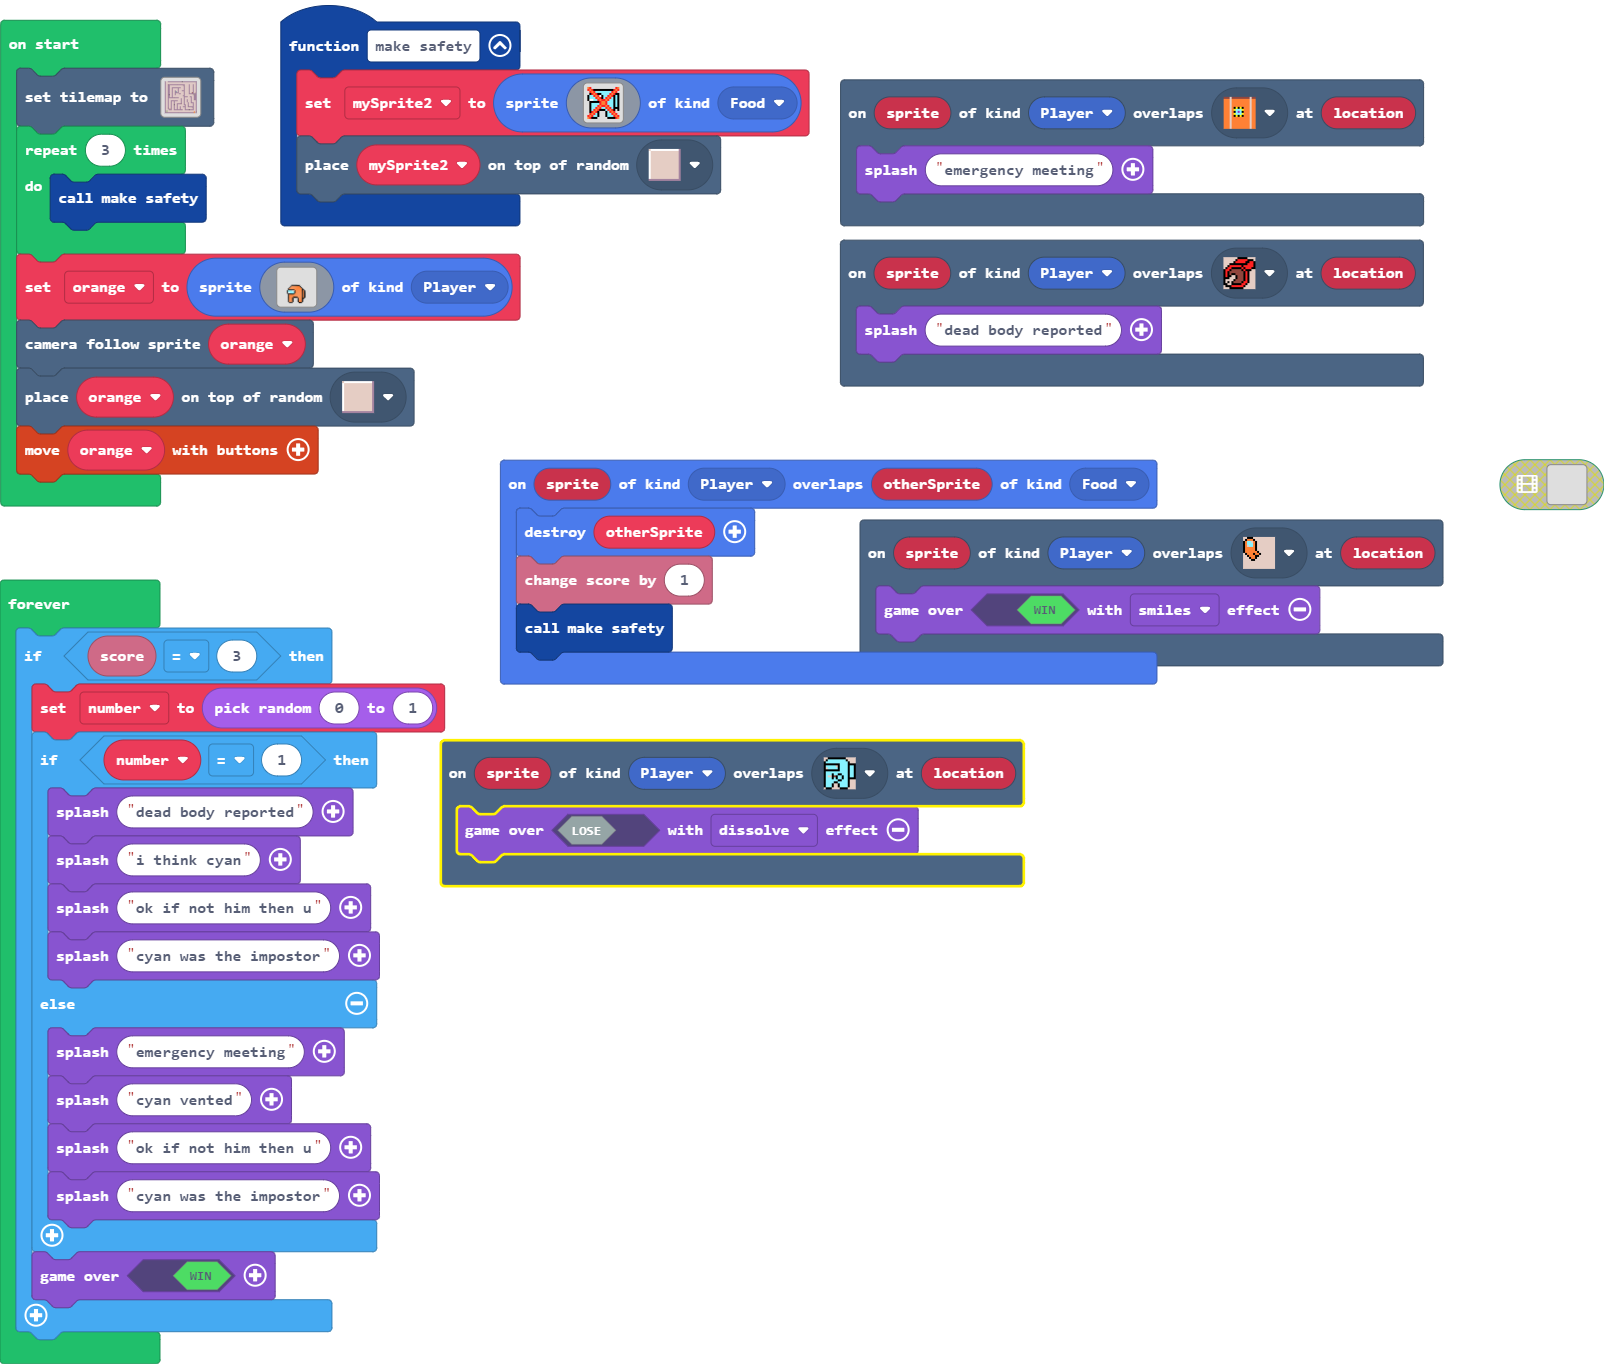
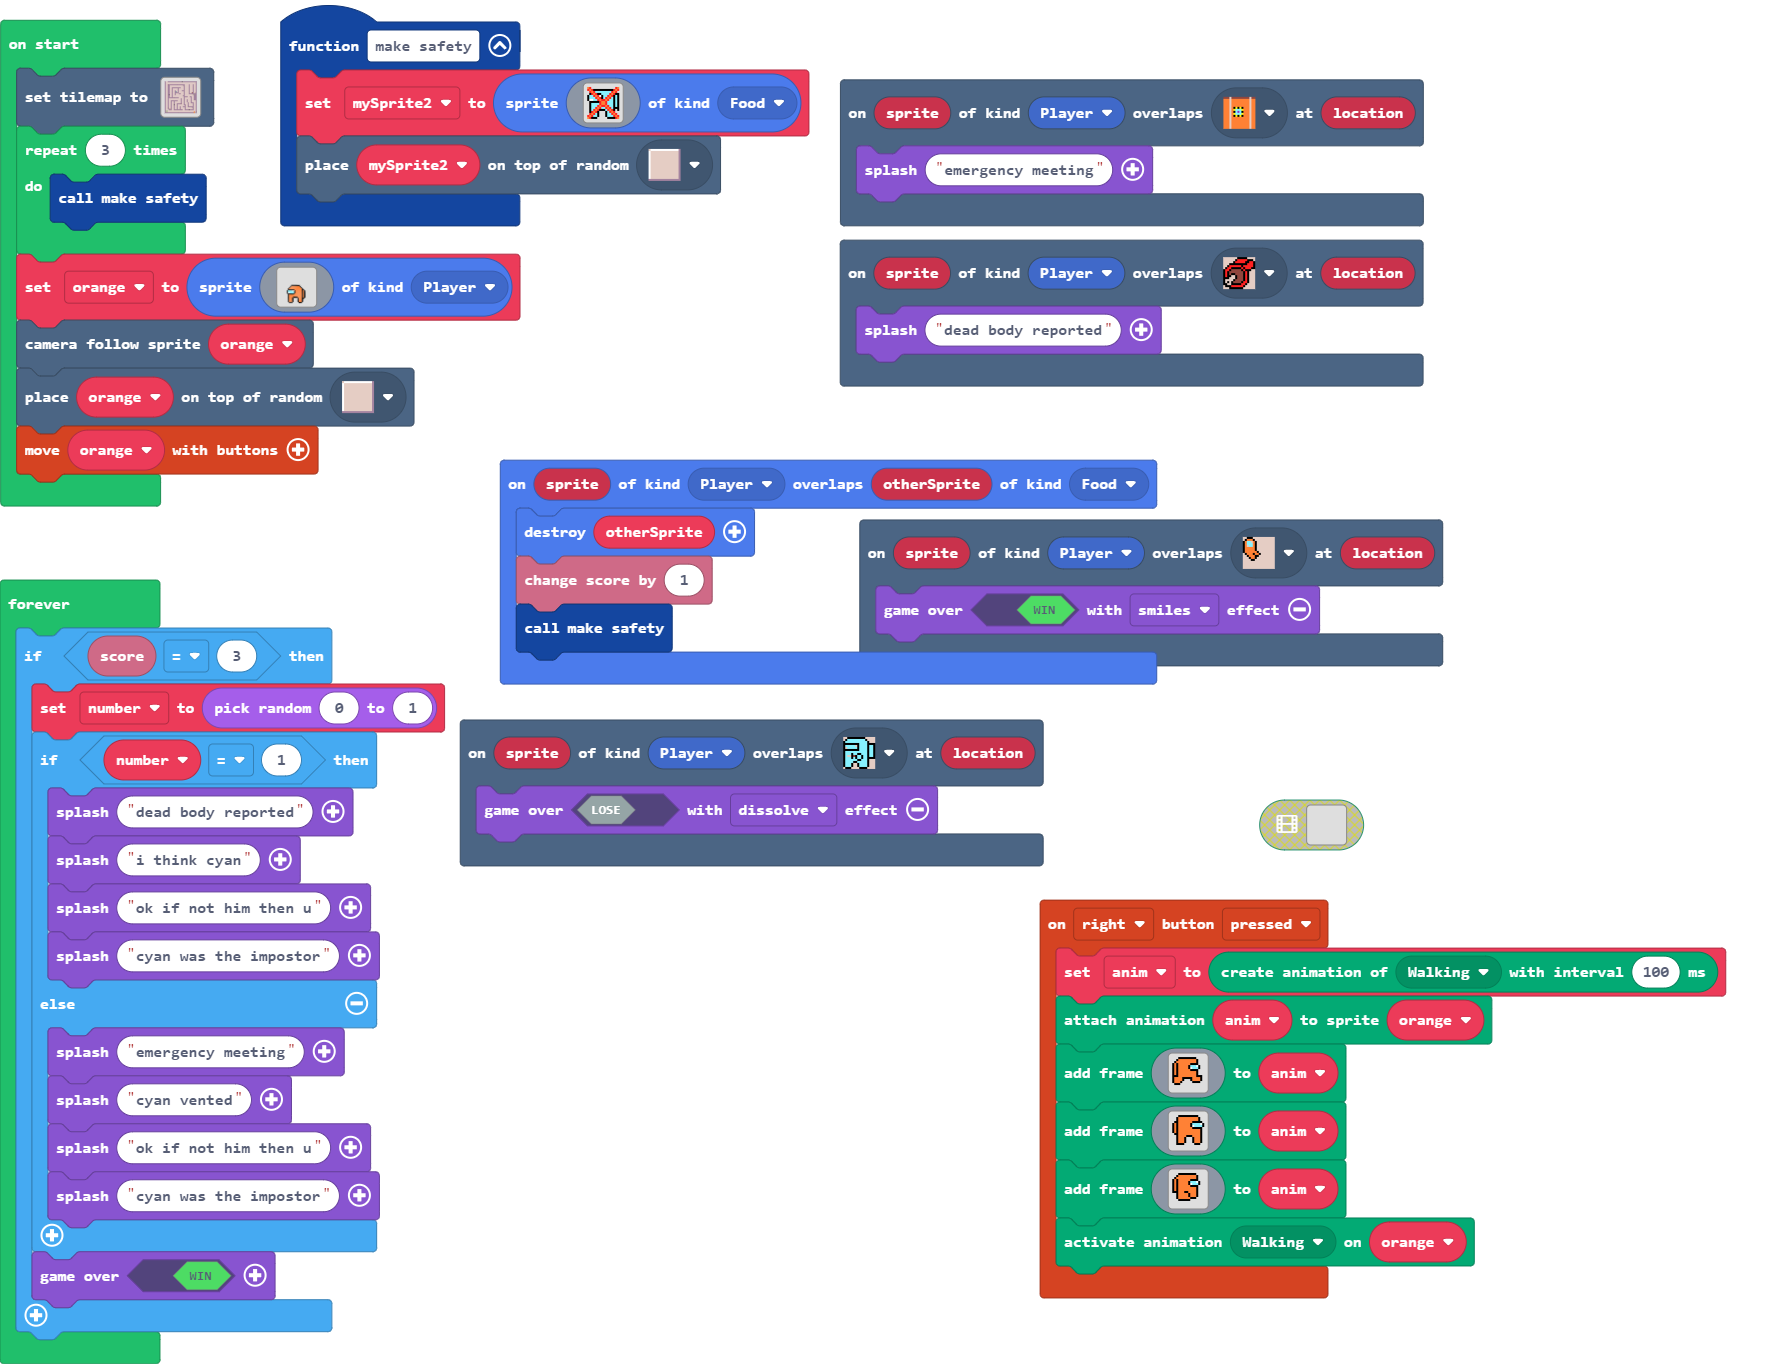
a bit of animation

diff --git a/main.ts b/main.ts
@@ -1,3 +1,8 @@
+enum ActionKind {
+    Walking,
+    Idle,
+    Jumping
+}
 function make_safety () {
     mySprite2 = sprites.create(img`
         4 2 . . . . . . . . . . . . 2 4 
@@ -25,6 +30,65 @@ scene.onOverlapTile(SpriteKind.Player, myTiles.tile3, function (sprite, location
 scene.onOverlapTile(SpriteKind.Player, myTiles.tile4, function (sprite, location) {
     game.over(true, effects.smiles)
 })
+controller.right.onEvent(ControllerButtonEvent.Pressed, function () {
+    anim = animation.createAnimation(ActionKind.Walking, 100)
+    animation.attachAnimation(orange, anim)
+    anim.addAnimationFrame(img`
+        . . . f f f f f f f f f . . . . 
+        . . f 4 4 4 4 4 4 4 4 4 f . . . 
+        . f 4 4 4 4 4 4 4 4 4 4 f . . . 
+        f 4 f 4 4 4 4 4 4 f f f f . . . 
+        f 4 f 4 4 4 4 4 f 9 9 9 1 f . . 
+        f 4 f 4 4 4 4 4 f 1 9 9 9 f . . 
+        f 4 f 4 4 4 4 4 4 f f f f . . . 
+        f 4 f 4 4 4 4 4 4 4 4 4 f . . . 
+        f 4 f 4 4 4 4 4 4 4 4 4 f . . . 
+        f f f 4 4 4 4 4 4 4 4 4 f f f . 
+        f 4 4 4 4 f f f f f 4 4 4 4 f . 
+        f 4 4 4 4 f . . . f 4 4 4 4 f . 
+        f 4 4 4 f . . . . . f f f f . . 
+        . f f f . . . . . . . . . . . . 
+        . . . . . . . . . . . . . . . . 
+        . . . . . . . . . . . . . . . . 
+        `)
+    anim.addAnimationFrame(img`
+        . . . f f f f f f f f f f . . . 
+        . . f 4 4 4 4 4 4 4 4 4 4 f . . 
+        . . f 4 4 4 4 4 4 4 4 4 4 f . . 
+        . f f 4 4 4 4 4 4 4 f f f f f . 
+        f 4 f 4 4 4 4 4 4 f 9 9 9 9 1 f 
+        f 4 f 4 4 4 4 4 4 f 1 9 9 9 9 f 
+        f 4 f 4 4 4 4 4 4 4 f f f f f . 
+        f 4 f 4 4 4 4 4 4 4 4 4 4 4 f . 
+        f 4 f 4 4 4 4 4 4 4 4 4 4 4 f . 
+        . f f 4 4 4 4 4 4 4 4 4 4 4 f . 
+        . . f 4 4 4 4 f f f 4 4 4 4 f . 
+        . . f 4 4 4 f . . . f 4 4 4 f . 
+        . . f 4 4 4 f . . . f 4 4 4 f . 
+        . . f 4 4 4 f . . . f 4 4 4 f . 
+        . . f f f f . . . . . f f f . . 
+        . . . . . . . . . . . . . . . . 
+        `)
+    anim.addAnimationFrame(img`
+        . . . f f f f f f f f f . . . . 
+        . . f 4 4 4 4 4 4 4 4 4 f . . . 
+        . f 4 4 4 4 4 4 4 4 4 4 f . . . 
+        f 4 f 4 4 4 4 4 4 f f f f . . . 
+        f 4 f 4 4 4 4 4 f 9 9 9 1 f . . 
+        f 4 f 4 4 4 4 4 f 1 9 9 9 f . . 
+        f 4 f 4 4 4 4 4 4 f f f f . . . 
+        f 4 f 4 4 4 4 4 4 4 4 4 f . . . 
+        f 4 f 4 4 4 4 4 4 4 4 4 f . . . 
+        f f f 4 4 4 f f 4 4 4 4 f . . . 
+        . . f 4 4 4 4 4 f 4 4 4 f . . . 
+        . . f 4 4 4 4 4 f 4 4 4 f . . . 
+        . . f 4 4 4 4 4 4 f f f . . . . 
+        . . . f f f f f f . . . . . . . 
+        . . . . . . . . . . . . . . . . 
+        . . . . . . . . . . . . . . . . 
+        `)
+    animation.setAction(orange, ActionKind.Walking)
+})
 sprites.onOverlap(SpriteKind.Player, SpriteKind.Food, function (sprite, otherSprite) {
     otherSprite.destroy()
     info.changeScoreBy(1)
@@ -37,7 +101,9 @@ scene.onOverlapTile(SpriteKind.Player, myTiles.tile5, function (sprite, location
     game.over(false, effects.dissolve)
 })
 let number = 0
+let anim: animation.Animation = null
 let mySprite2: Sprite = null
+let orange: Sprite = null
[1 lines of base64/hex data omitted]
     2..22222222222222222222222222222
     2..............................2
@@ -75,7 +141,7 @@ tiles.setTilemap(tiles.createTilemap(hex`200020000201010202020202020202020202020
 for (let index = 0; index < 3; index++) {
     make_safety()
 }
-let orange = sprites.create(img`
+orange = sprites.create(img`
     .........................
     .........................
     .........................
